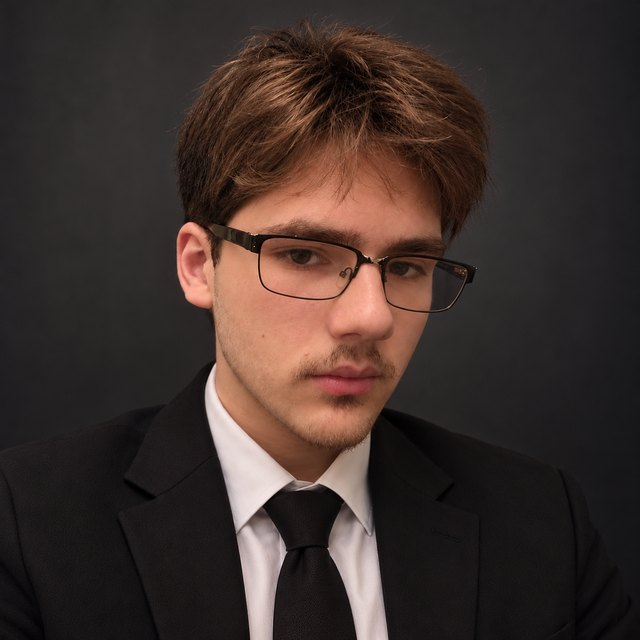
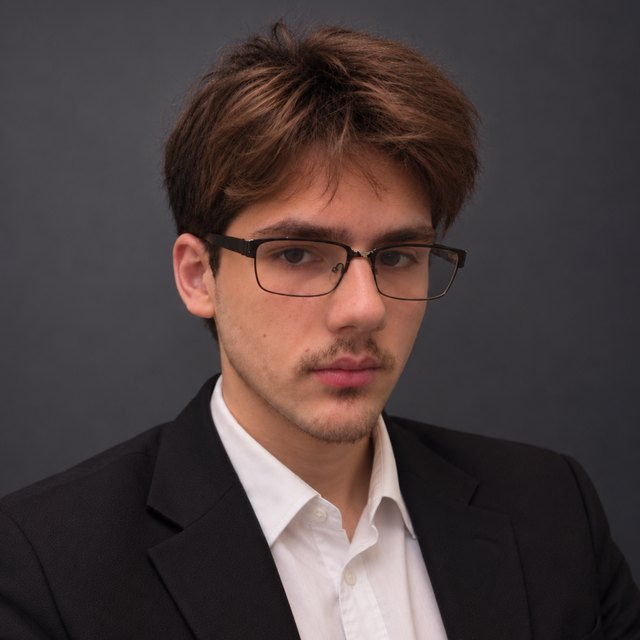
Update portrait photo

diff --git a/index.html b/index.html
@@ -23,7 +23,7 @@
     <link rel="preconnect" href="https://fonts.gstatic.com" crossorigin>
     <link href="https://fonts.googleapis.com/css2?family=JetBrains+Mono:wght@400;700&family=Noto+Sans+Georgian:wght@100..900&display=swap" rel="stylesheet">
     <link rel="stylesheet" href="css/nav.css?v=project-links-1">
-    <link rel="stylesheet" href="css/about.css?v=square-photo-2">
+    <link rel="stylesheet" href="css/about.css?v=square-photo-3">
     <link rel="stylesheet" href="css/skills.css?v=skills-about-1">
     <link rel="stylesheet" href="css/projects.css?v=heading-line-1">
     <link rel="stylesheet" href="css/experience.css?v=rento-1">    <link rel="icon" type="image/png" href="./images/images.png">
@@ -55,10 +55,10 @@
                 </hgroup>
                 <figure class="intro-photo-frame">
                     <picture>
-                        <source srcset="images/portfoliopic.webp" type="image/webp">
+                        <source srcset="images/portfoliopic.webp?v=3" type="image/webp">
                         <img
                             class="intro-photo"
-                            src="images/portfoliopic.jpeg"
+                            src="images/portfoliopic.jpeg?v=3"
                             width="640"
                             height="640"
                             draggable="false"
